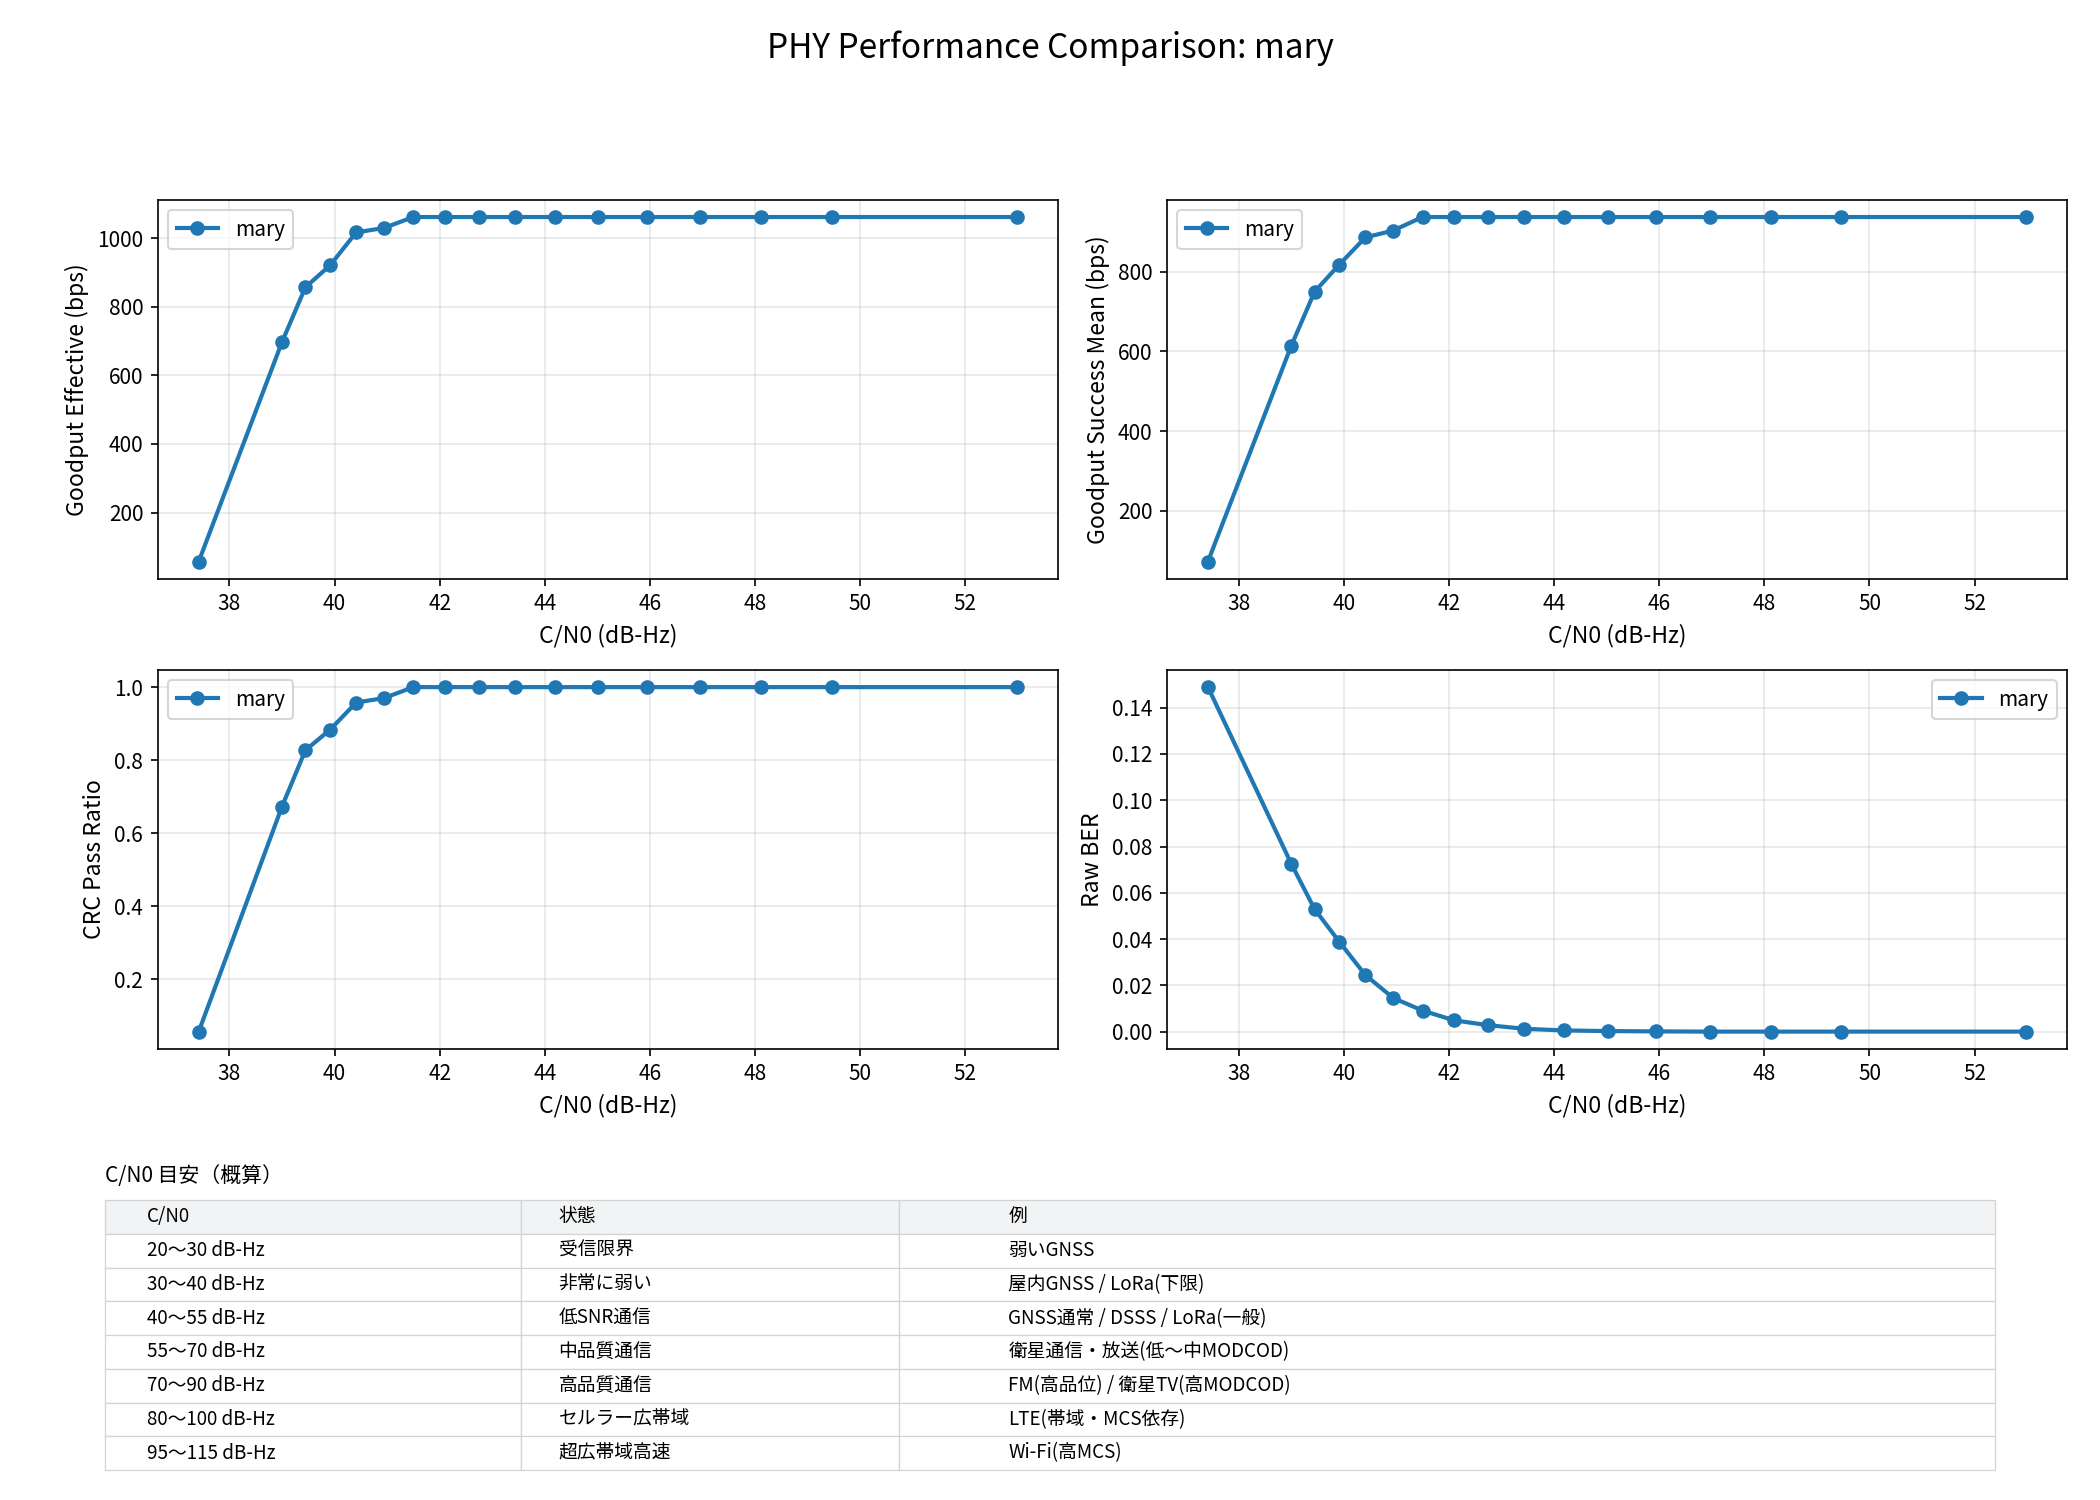
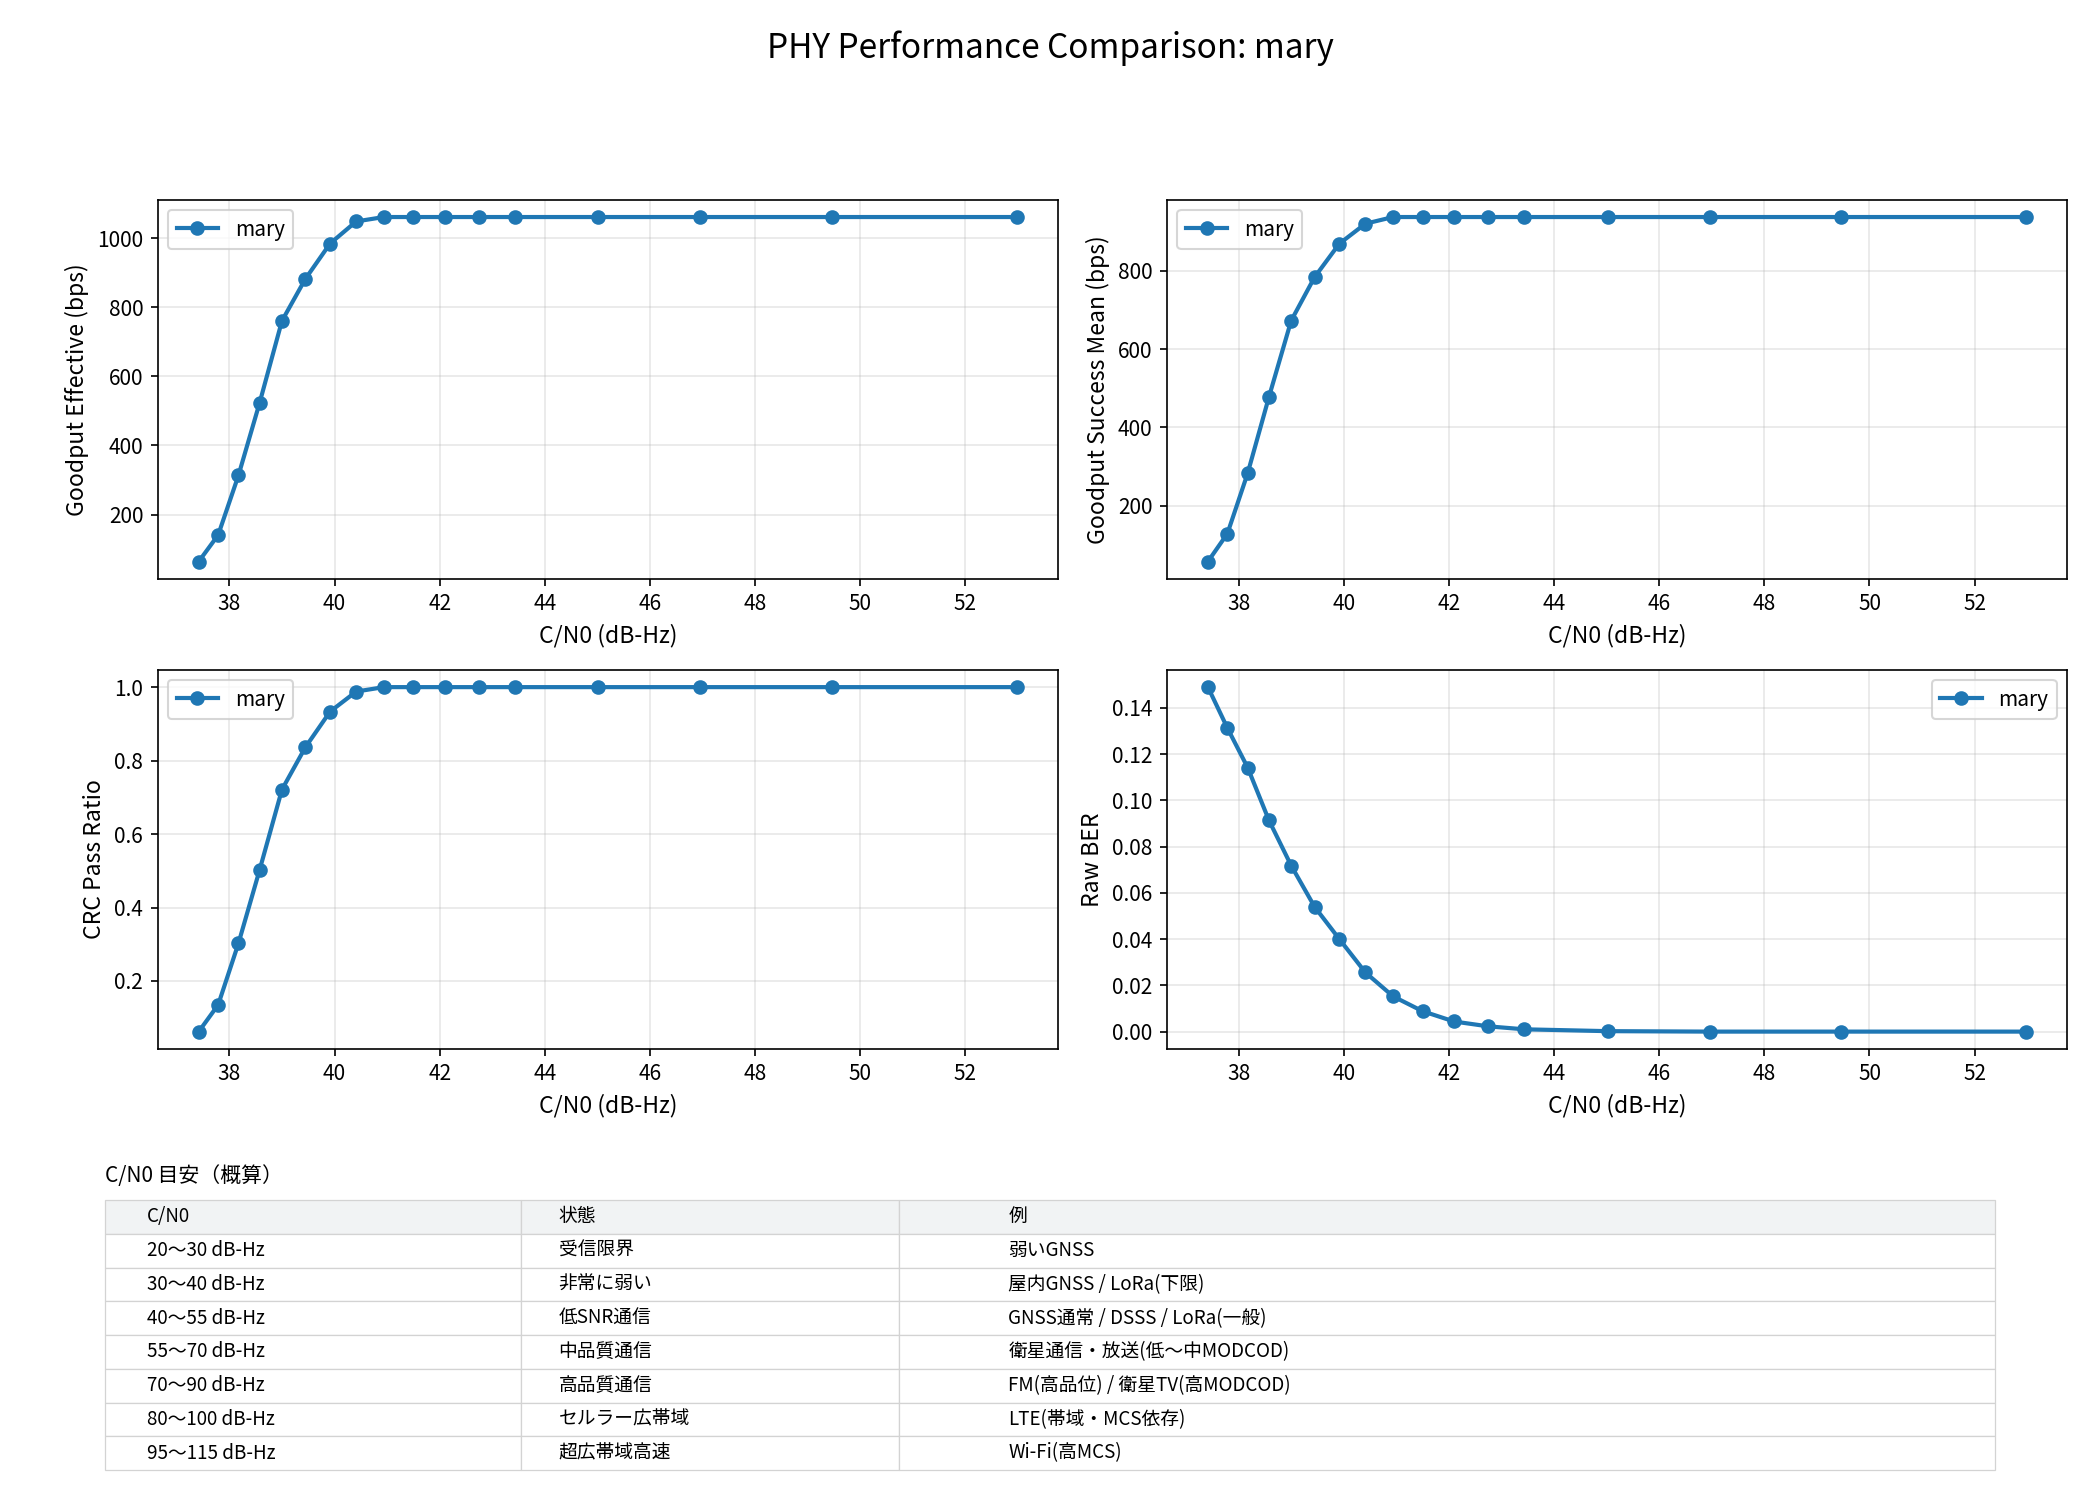
update

diff --git a/scripts/phy_eval/plot_comparison.py b/scripts/phy_eval/plot_comparison.py
@@ -47,7 +47,7 @@ def add_cn0_reference(fig):
         if r == 0:
             cell.set_facecolor("#f1f3f4")
 
-def run_eval(phy, packets_per_frame="2", sweep_awgn="0.2,0.3,0.35,0.40,0.45,0.50,0.55,0.60,0.65,0.70,0.75,0.8,0.85,0.9,0.95,1.0,1.2",
+def run_eval(phy, packets_per_frame="2", sweep_awgn="0.2,0.3,0.40,0.50,0.60,0.65,0.70,0.75,0.8,0.85,0.9,0.95,1.0,1.05,1.1,1.15,1.2",
              columns="scenario,crc_pass_ratio,goodput_effective_bps,goodput_success_mean_bps,ebn0_db,cn0_db,raw_ber",
              mode="sweep-awgn", **extra_args):
     """指定された PHY で評価を実行し、JSON 結果を返す

diff --git a/README.md b/README.md
@@ -258,22 +258,20 @@ $ cargo run --release --bin dsss_e2e_eval -- \
         --phy mary \
         --mode sweep-awgn \
         --packets-per-frame 2 \
-        --sweep-awgn '0.0,0.1,0.2,0.3,0.4,0.5,0.7,0.8,0.9' \
+        --sweep-awgn '0.5,0.7,0.8,0.9,1.0,1.1,1.2' \
         --columns 'scenario,ebn0_db,packet_accept_ratio,synced_frame_ratio,crc_pass_ratio,raw_ber,goodput_effective_bps,goodput_success_mean_bps' \
         --output table
 ```
 
 | scenario                       | ebn0_db         | packet_accept_ratio | synced_frame_ratio | crc_pass_ratio  | raw_ber         | goodput_effective_bps | goodput_success_mean_bps |
 | :----------------------------- | :-------------- | :-------------- | :-------------- | :-------------- | :-------------- | :-------------- | :-------------- |
-| sweep_awgn(sigma=0.000)        | -               | 1.0000          | 1.0000          | 1.0000          | 0.0000          | 1061.4156       | 937.8757        |
-| sweep_awgn(sigma=0.100)        | 28.3278         | 1.0000          | 1.0000          | 1.0000          | 0.0000          | 1061.4156       | 937.8757        |
-| sweep_awgn(sigma=0.200)        | 22.3072         | 1.0000          | 1.0000          | 1.0000          | 0.0000          | 1061.4156       | 937.8757        |
-| sweep_awgn(sigma=0.300)        | 18.7854         | 1.0000          | 1.0000          | 1.0000          | 0.0000          | 1061.4156       | 937.8757        |
-| sweep_awgn(sigma=0.400)        | 16.2866         | 1.0000          | 1.0000          | 1.0000          | 0.0000          | 1061.4156       | 937.8757        |
-| sweep_awgn(sigma=0.500)        | 14.3484         | 1.0000          | 1.0000          | 1.0000          | 1.96e-4         | 1061.4156       | 937.8757        |
-| sweep_awgn(sigma=0.700)        | 11.4258         | 0.9880          | 1.0000          | 0.9880          | 0.0055          | 1048.6276       | 929.3496        |
-| sweep_awgn(sigma=0.800)        | 10.2660         | 0.9578          | 1.0000          | 0.9607          | 0.0163          | 1016.6572       | 903.6953        |
-| sweep_awgn(sigma=0.900)        | 9.2430          | 0.8313          | 1.0000          | 0.8440          | 0.0426          | 882.3817        | 780.5814        |
+| sweep_awgn(sigma=0.500)        | 14.3483         | 1.0000          | 1.0000          | 1.0000          | 1.71e-4         | 1061.4156       | 937.8757        |
+| sweep_awgn(sigma=0.700)        | 11.4257         | 1.0000          | 1.0000          | 1.0000          | 0.0044          | 1061.4156       | 937.8757        |
+| sweep_awgn(sigma=0.800)        | 10.2659         | 0.9849          | 1.0000          | 0.9849          | 0.0151          | 1045.4305       | 929.2715        |
+| sweep_awgn(sigma=0.900)        | 9.2428          | 0.9398          | 1.0000          | 0.9426          | 0.0386          | 997.4750        | 886.6444        |
+| sweep_awgn(sigma=1.000)        | 8.3277          | 0.7500          | 1.0000          | 0.7545          | 0.0687          | 796.0618        | 707.6105        |
+| sweep_awgn(sigma=1.100)        | 7.4998          | 0.2801          | 1.0000          | 0.2862          | 0.1111          | 297.3243        | 264.2882        |
+| sweep_awgn(sigma=1.200)        | 6.7440          | 0.0482          | 0.9940          | 0.0497          | 0.1496          | 51.1526         | 50.9115         |
 
 
 ## ライセンス
